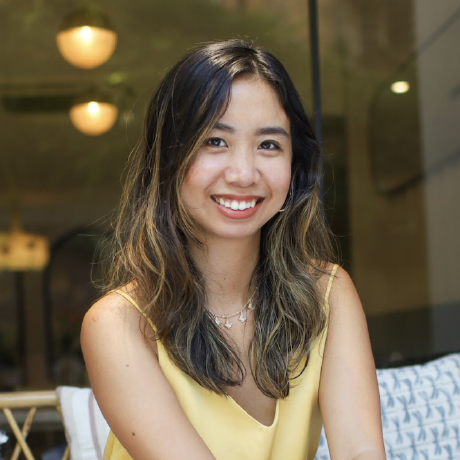
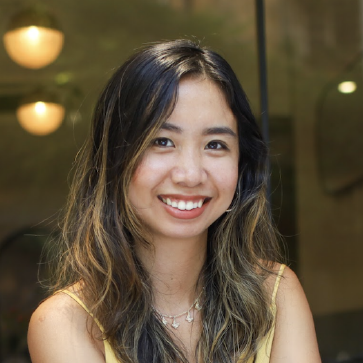
Add Marina's links, photos

diff --git a/homepage/gcmp/app/team/page.tsx b/homepage/gcmp/app/team/page.tsx
@@ -1,6 +1,11 @@
 import { GlobeIcon, LucideIcon } from "lucide-react";
 import Link from "next/link";
-import { SiGithub, SiX } from "@icons-pack/react-simple-icons";
+import {
+    SiGithub,
+    SiGitlab,
+    SiLinkedin,
+    SiX,
+} from "@icons-pack/react-simple-icons";
 import { HeroHeader } from "gcmp-design-system/src/app/components/molecules/HeroHeader";
 
 interface TeamMember {
@@ -10,7 +15,9 @@ interface TeamMember {
     location: string;
     x?: string;
     github?: string;
+    gitlab?: string;
     website?: string;
+    linkedin?: string;
 }
 
 const team: Array<TeamMember> = [
@@ -57,6 +64,10 @@ const team: Array<TeamMember> = [
         name: "Marina Orlova",
         titles: ["Full-Stack Dev"],
         location: "Tarragona, Spain ",
+        gitlab: "marinaorlova",
+        linkedin: "marina-orlova-52a34394",
+        // github: "marinoska",
+        image: "marina.jpeg",
     },
 ];
 
@@ -78,8 +89,7 @@ function SocialLink({
 }
 
 function Person({ person }: { person: TeamMember }) {
-    const imageClassName =
-        "size-24 shadow rounded-md bg-stone-100 sm:size-28 ";
+    const imageClassName = "size-24 shadow rounded-md bg-stone-100 sm:size-28 ";
     return (
         <div className="flex items-center gap-5">
             {person.image ? (
@@ -124,6 +134,20 @@ function Person({ person }: { person: TeamMember }) {
                             link={`https://x.com/${person.x}`}
                             icon={SiX}
                             label="X profile"
+                        />
+                    )}
+                    {person.gitlab && (
+                        <SocialLink
+                            link={`https://gitlab.com/${person.gitlab}`}
+                            icon={SiGitlab}
+                            label="Gitlab profile"
+                        />
+                    )}
+                    {person.linkedin && (
+                        <SocialLink
+                            link={`https://www.linkedin.com/in/${person.linkedin}`}
+                            icon={SiLinkedin}
+                            label="Linkedin profile"
                         />
                     )}
                     {person.github && (
